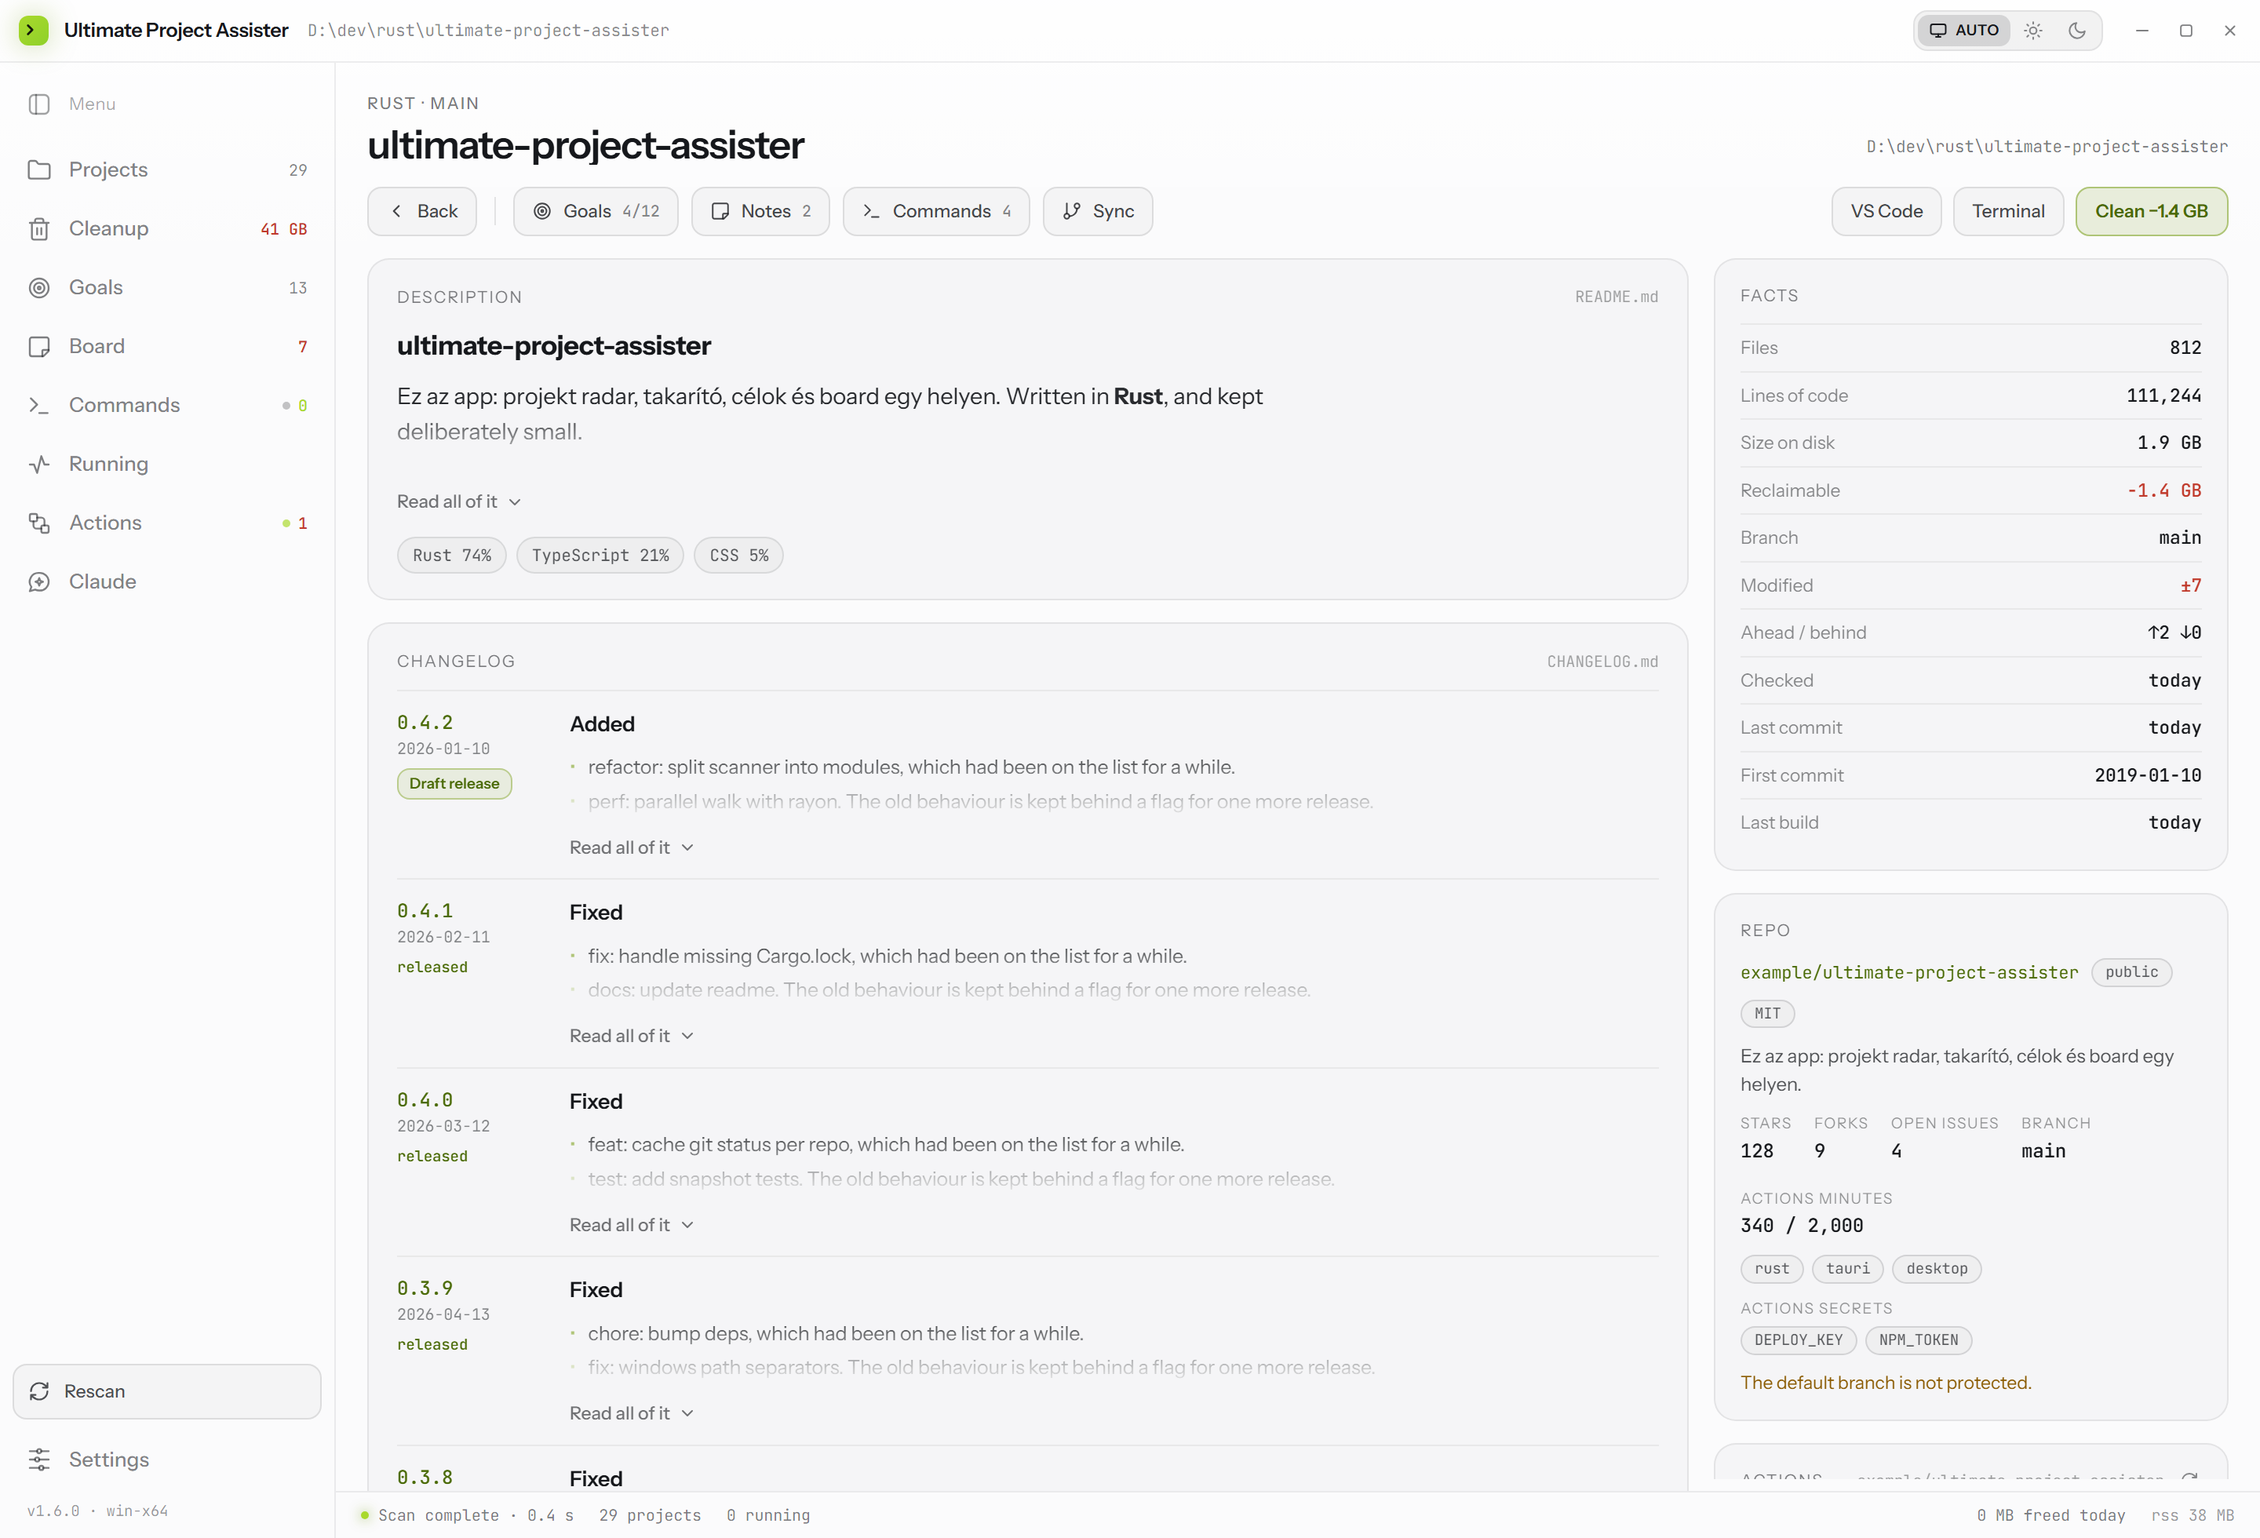
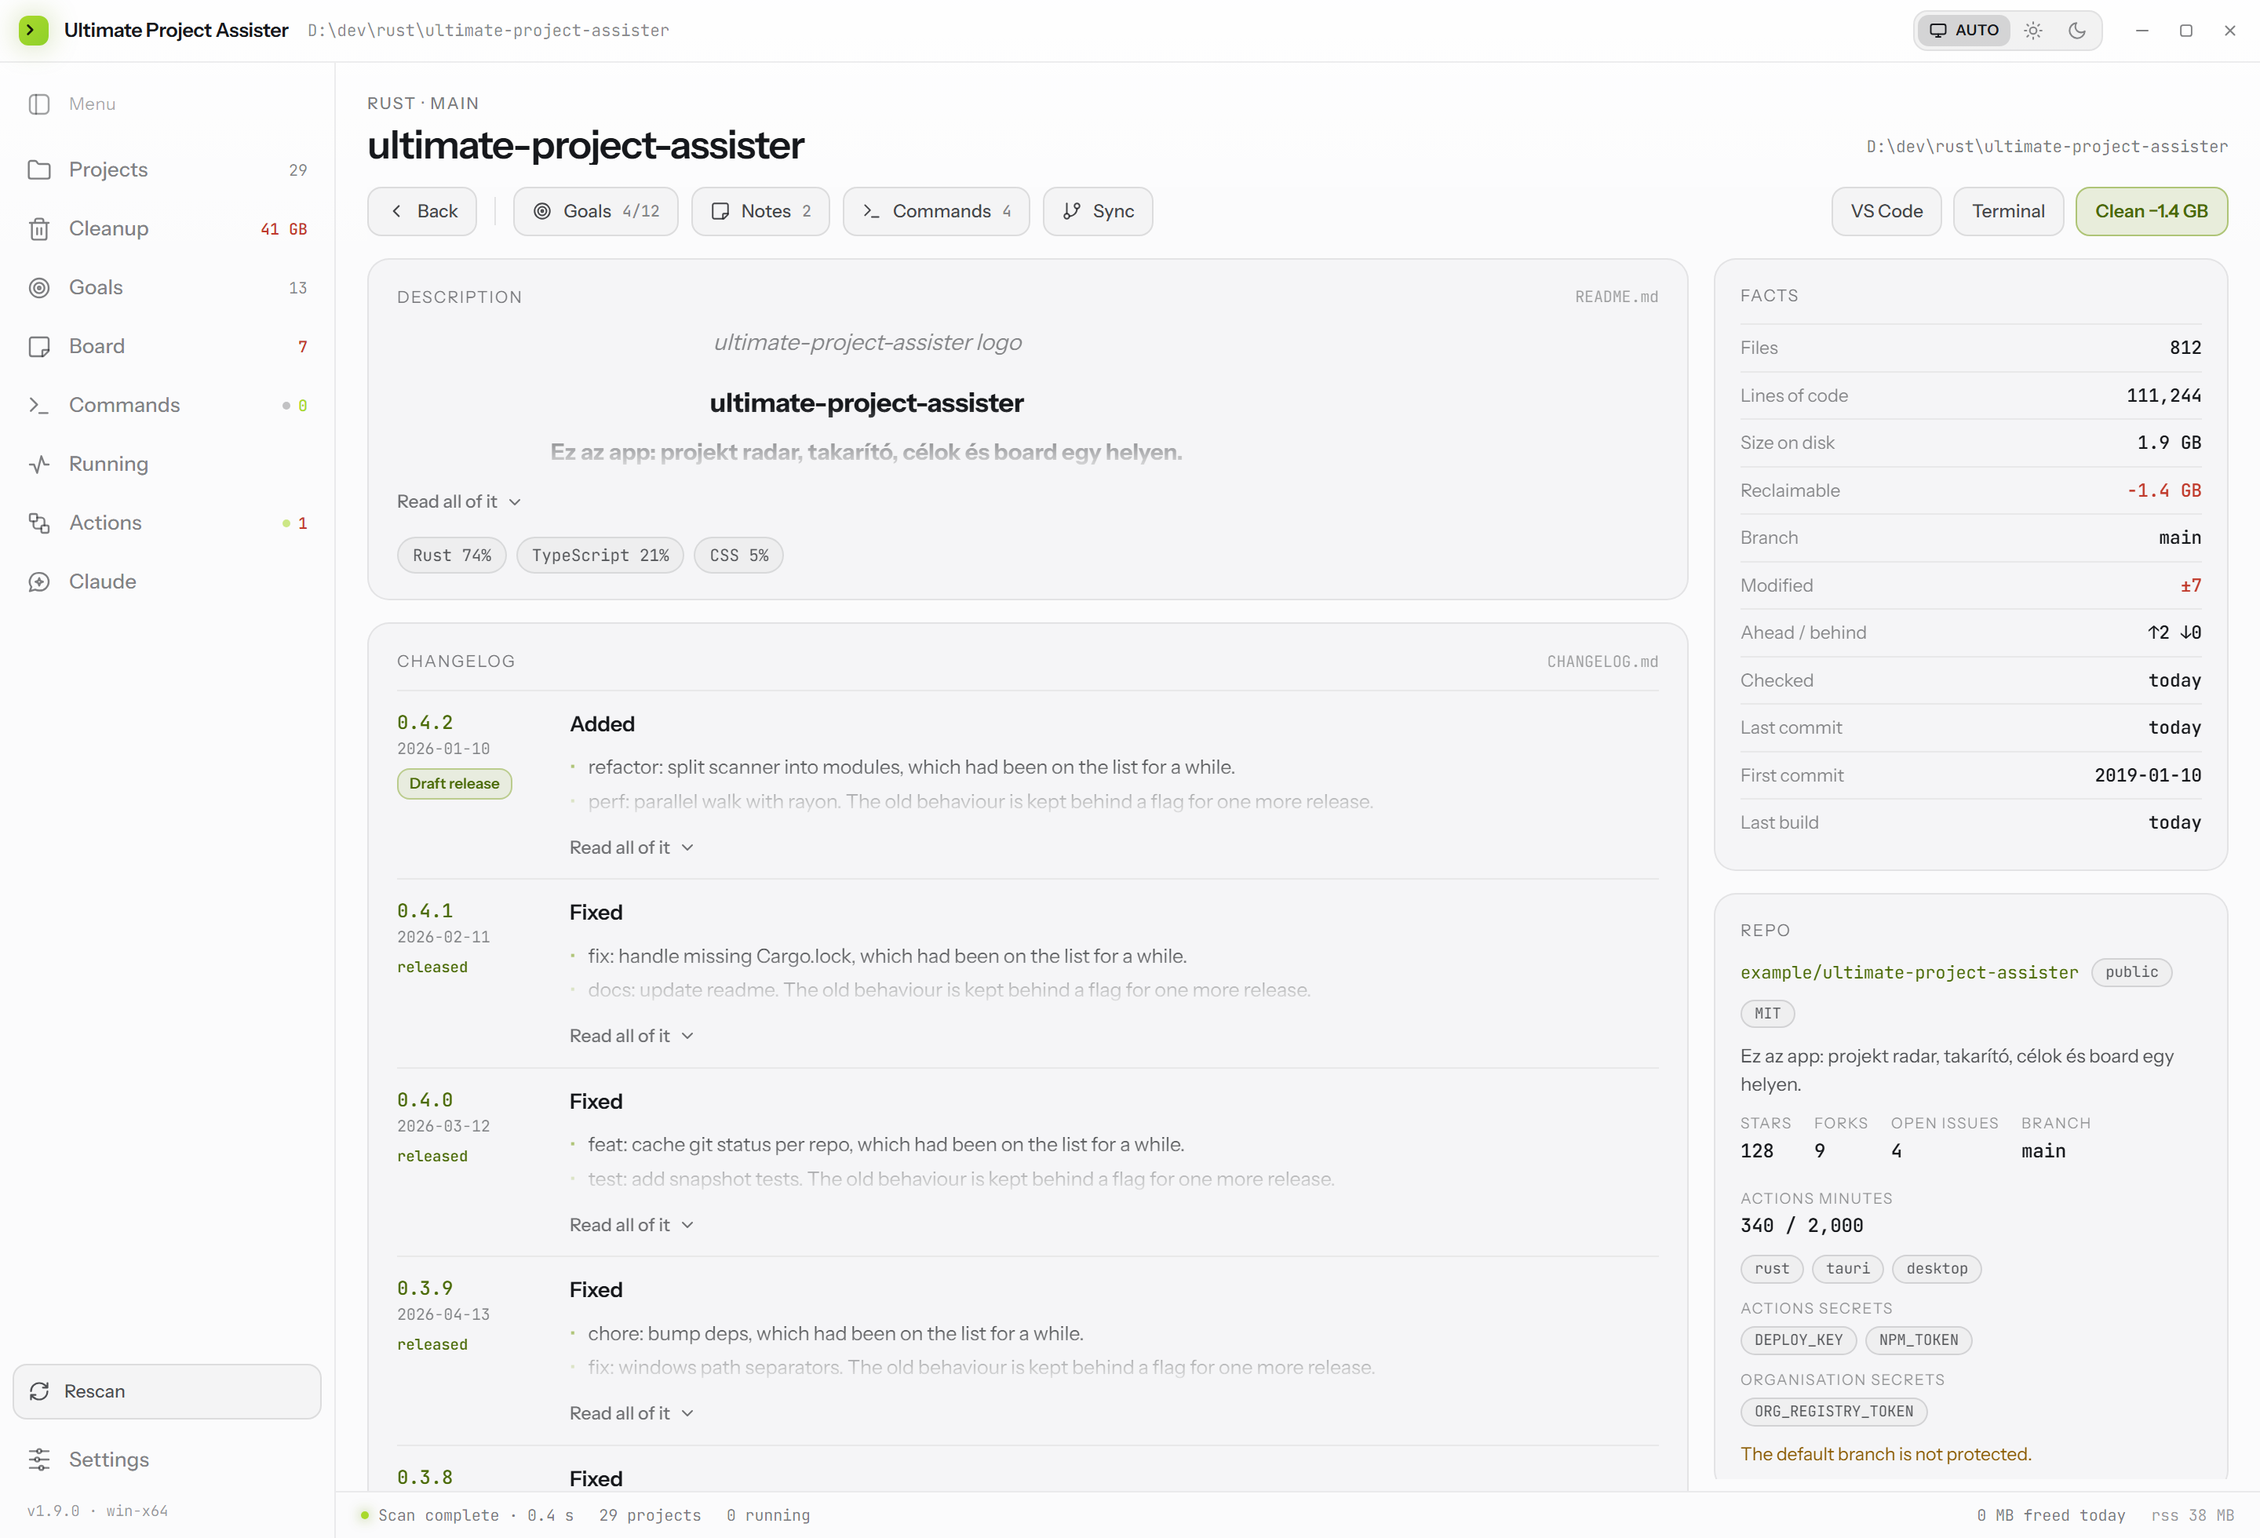
fix: a README's HTML is rendered, not printed
Half the repositories on GitHub open with a centred block — a logo, the title, a
row of badges, a line of small print — and the description panel showed the
markup itself: `<div align="center">` as a line of text, then the `<img>` tag,
then the heading.

A small, closed subset of HTML is understood now: alignment carried by div, p
and center; headings; line breaks; bold, italic, code and strikethrough; links;
details/summary; and comments, which are dropped. Anything else loses its tags
and keeps its text, because showing the markup is worse than either rendering it
or leaving it out.

Nothing is injected as HTML. The inline pass rewrites the handful of tags it
understands into the markdown they stand for and hands the result to the
renderer that was already there — one renderer, already safe, and no path from a
scanned file to markup in the app.

Images cannot be fetched: the paths are relative to a folder the webview does not
serve, and a badge is a remote request this app does not make. Both leave their
label behind — an image its alt text, a badge its name as a small chip — which is
the part that carried the meaning anyway. The sample README gained the same
centred header, so the browser build exercises this too.

Changed region(s): [[0.1875, 0.2179, 0.5625, 0.3112], [0.7812, 0.8714, 0.9062, 0.9648]]

diff --git a/src/components/Markdown.tsx b/src/components/Markdown.tsx
@@ -4,8 +4,13 @@
 // React and the Tauri bindings, and a README needs headings, lists, code,
 // tables and emphasis - not a full CommonMark implementation.
 //
-// Nothing here builds HTML from the source text; every element is a React node,
-// so a README with markup in it renders as text rather than as markup.
+// Nothing here builds HTML from the source text; every element is a React node.
+// A README does contain HTML - the centred logo and badge block at the top of
+// half the repositories on GitHub - so a small, closed subset of it is
+// understood: alignment, headings, line breaks, emphasis, links, images and
+// collapsed sections. Everything else has its tags dropped and its text kept,
+// because showing `<div align="center">` to the reader is worse than either
+// rendering it or leaving it out.
 
 import { Fragment, type CSSProperties, type ReactNode } from "react";
 
@@ -22,6 +27,7 @@ const INLINE = new RegExp(
     "(\\*\\*[^*]+\\*\\*)", // bold
     "(~~[^~]+~~)", // strikethrough
     "(\\*(?!\\s)[^*]+\\*)", // italic
+    "(\\[!\\[[^\\]]*\\]\\([^)]*\\)\\]\\([^)]*\\))", // badge: an image inside a link
     "(!?\\[[^\\]]*\\]\\([^)\\s]*[^)]*\\))", // link / image
     "(<https?://[^>]+>)", // angle autolink
     "(https?://[^\\s<>()\\[\\]]+)", // bare autolink
@@ -51,6 +57,42 @@ function Link({ text, href }: { text: string; href: string }) {
   );
 }
 
+/**
+ * Turns the inline HTML a README uses into the markdown it stands for, and
+ * drops the rest of the tags.
+ *
+ * Deliberately a rewrite into markdown rather than a parse into elements: the
+ * markdown path below is already written, already safe, and this way there is
+ * one renderer rather than two. Nothing here can produce markup - the output is
+ * text that the inline pass reads as text.
+ */
+function fromHtml(text: string): string {
+  return (
+    text
+      // A link keeps its address; anything else about the anchor is dropped.
+      .replace(/<a\s[^>]*href=["']([^"']+)["'][^>]*>([\s\S]*?)<\/a>/gi, "[$2]($1)")
+      .replace(/<(?:b|strong)>([\s\S]*?)<\/(?:b|strong)>/gi, "**$1**")
+      .replace(/<(?:i|em)>([\s\S]*?)<\/(?:i|em)>/gi, "*$1*")
+      .replace(/<code>([\s\S]*?)<\/code>/gi, "`$1`")
+      .replace(/<(?:del|s|strike)>([\s\S]*?)<\/(?:del|s|strike)>/gi, "~~$1~~")
+      // A line break is the one tag whose absence would be felt: without it
+      // the words on either side would run together.
+      .replace(/<br\s*\/?>/gi, " ")
+      // Everything that is left is structure this renderer does not draw. The
+      // text inside it is still the author's, so only the tags go.
+      .replace(/<\/?[a-z][^>]*>/gi, "")
+      // The entities a README actually writes. Anything rarer is left as it
+      // stands rather than half-decoded.
+      .replace(/&nbsp;/g, " ")
+      .replace(/&lt;/g, "<")
+      .replace(/&gt;/g, ">")
+      .replace(/&quot;/g, '"')
+      .replace(/&#39;/g, "'")
+      .replace(/&amp;/g, "&")
+      .trim()
+  );
+}
+
 function inline(text: string, keyPrefix: string): ReactNode[] {
   const out: ReactNode[] = [];
   let last = 0;
@@ -63,7 +105,30 @@ function inline(text: string, keyPrefix: string): ReactNode[] {
     const key = `${keyPrefix}i${n++}`;
     const tok = m[0];
 
-    if (tok.startsWith("`")) {
+    if (tok.startsWith("[![")) {
+      // A badge: an image inside a link, which is neither a picture this can
+      // show nor a link worth following. Its label is the whole of it.
+      const alt = tok.slice(3, tok.indexOf("]("));
+      if (alt) {
+        out.push(
+          <span
+            key={key}
+            style={{
+              fontFamily: "'JetBrains Mono',monospace",
+              fontSize: "0.82em",
+              border: "1px solid rgba(var(--wrgb),.12)",
+              borderRadius: 99,
+              padding: "1px 7px",
+              marginRight: 3,
+              color: "rgba(var(--trgb),.6)",
+              whiteSpace: "nowrap",
+            }}
+          >
+            {alt}
+          </span>,
+        );
+      }
+    } else if (tok.startsWith("`")) {
       out.push(
         <code key={key} style={code}>
           {tok.slice(1, -1)}
@@ -104,6 +169,20 @@ function inline(text: string, keyPrefix: string): ReactNode[] {
   return out;
 }
 
+/** `<img ... alt="X" ...>` -> `X`, the only part of an image that can be shown. */
+function imgAlt(tag: string): string {
+  return /alt=["']([^"']*)["']/i.exec(tag)?.[1]?.trim() ?? "";
+}
+
+/** The alignment an opening tag asks for, when it asks for one. */
+function alignOf(tag: string): CSSProperties["textAlign"] {
+  const value = /align=["']?(center|left|right)["']?/i.exec(tag)?.[1]?.toLowerCase();
+  return value === "center" || value === "right" ? value : undefined;
+}
+
+/** A line that is nothing but one HTML tag - the shape a README block takes. */
+const TAG_ONLY = /^<\/?[a-z][^>]*>$/i;
+
 const HEAD_SIZE = [17, 15, 13.5, 12.5, 12, 12];
 
 /** `| a | b |` -> `["a", "b"]`, tolerating a missing trailing pipe. */
@@ -117,17 +196,29 @@ function isDivider(row: string): boolean {
 }
 
 export function Markdown({ source }: { source: string }) {
-  const lines = source.replace(/\r\n/g, "\n").split("\n");
+  // HTML comments are not content, and a README uses them for notes to the
+  // next maintainer and for tool markers alike.
+  const lines = source
+    .replace(/\r\n/g, "\n")
+    .replace(/<!--[\s\S]*?-->/g, "")
+    .split("\n");
   const out: ReactNode[] = [];
   let para: string[] = [];
   let n = 0;
+  /**
+   * Alignment asked for by an enclosing `<div align>` or `<p align>`, innermost
+   * last. A stack rather than a flag: the centred block at the top of a README
+   * usually holds another one.
+   */
+  const aligns: Array<CSSProperties["textAlign"]> = [];
+  const alignment = () => [...aligns].reverse().find(Boolean);
 
   const flushPara = () => {
     if (para.length === 0) return;
     const key = `p${n++}`;
     out.push(
-      <p key={key} style={{ margin: "0 0 9px" }}>
-        {inline(para.join(" "), key)}
+      <p key={key} style={{ margin: "0 0 9px", textAlign: alignment() }}>
+        {inline(fromHtml(para.join(" ")), key)}
       </p>,
     );
     para = [];
@@ -184,6 +275,93 @@ export function Markdown({ source }: { source: string }) {
       continue;
     }
 
+    // --- HTML ---------------------------------------------------------------
+    //
+    // Only the shapes a README actually uses, and only when the line is the tag
+    // itself: a `<` in the middle of a sentence is a less-than sign.
+    if (trimmed.startsWith("<")) {
+      // An image cannot be shown - the path is relative to a folder the webview
+      // does not serve, and a badge is a remote fetch this app does not make -
+      // so what is left of it is what it was labelled.
+      const img = /^<img\s[^>]*>$/i.exec(trimmed);
+      if (img) {
+        flushPara();
+        const alt = imgAlt(trimmed);
+        if (alt) {
+          out.push(
+            <div
+              key={`m${n++}`}
+              style={{
+                margin: "0 0 8px",
+                opacity: 0.55,
+                fontStyle: "italic",
+                textAlign: alignment(),
+              }}
+            >
+              {alt}
+            </div>,
+          );
+        }
+        continue;
+      }
+
+      // `<h2>Text</h2>` on one line, which is how an HTML-formatted README
+      // writes a heading inside a centred block.
+      const head = /^<h([1-6])>([\s\S]*?)<\/h[1-6]>$/i.exec(trimmed);
+      if (head) {
+        flushPara();
+        const depth = Number(head[1] ?? "1");
+        const key = `t${n++}`;
+        out.push(
+          <div
+            key={key}
+            style={{
+              fontSize: HEAD_SIZE[depth - 1],
+              fontWeight: depth <= 2 ? 650 : 600,
+              letterSpacing: "-.01em",
+              margin: out.length === 0 ? "0 0 8px" : "14px 0 7px",
+              color: "var(--t0)",
+              textAlign: alignment(),
+            }}
+          >
+            {inline(fromHtml(head[2] ?? ""), key)}
+          </div>,
+        );
+        continue;
+      }
+
+      // A collapsed section: the summary is the part worth showing, since
+      // there is nothing here to collapse it behind.
+      const summary = /^<summary>([\s\S]*?)<\/summary>$/i.exec(trimmed);
+      if (summary) {
+        flushPara();
+        const key = `s${n++}`;
+        out.push(
+          <div key={key} style={{ fontWeight: 600, margin: "8px 0 6px" }}>
+            {inline(fromHtml(summary[1] ?? ""), key)}
+          </div>,
+        );
+        continue;
+      }
+
+      if (TAG_ONLY.test(trimmed)) {
+        // An opening tag that asks for alignment starts a block; its closing
+        // tag ends one. Everything else - `<br>`, `<hr>`, `</sub>` - is
+        // structure with no text of its own, and simply goes.
+        if (!trimmed.startsWith("</")) {
+          const align = alignOf(trimmed);
+          if (/^<(?:div|p|center)\b/i.test(trimmed)) {
+            flushPara();
+            aligns.push(/^<center\b/i.test(trimmed) ? "center" : align);
+          }
+        } else if (/^<\/(?:div|p|center)>$/i.test(trimmed)) {
+          flushPara();
+          aligns.pop();
+        }
+        continue;
+      }
+    }
+
     // --- heading ----------------------------------------------------------
     const head = /^(#{1,6})\s+(.*)$/.exec(trimmed);
     if (head) {
@@ -199,9 +377,10 @@ export function Markdown({ source }: { source: string }) {
             letterSpacing: "-.01em",
             margin: out.length === 0 ? "0 0 8px" : "14px 0 7px",
             color: "var(--t0)",
+            textAlign: alignment(),
           }}
         >
-          {inline(head[2] ?? "", key)}
+          {inline(fromHtml(head[2] ?? ""), key)}
         </div>,
       );
       continue;

diff --git a/src/mock.ts b/src/mock.ts
@@ -294,7 +294,24 @@ function manifestsFor(stack: string, name: string): string[] {
  * renderer handles: headings, prose, a list, a fenced block, a table, a quote.
  */
 function readmeFor(name: string, stack: string, desc: string): string {
-  return `# ${name}
+  // The centred HTML header half the repositories on GitHub open with, so the
+  // browser build exercises the renderer's HTML path as well as its markdown.
+  return `<div align="center">
+
+<img src="docs/logo.png" alt="${name} logo" width="96" height="96">
+
+# ${name}
+
+**${desc}**
+
+[![License: MIT](https://img.shields.io/badge/License-MIT-blue.svg)](LICENSE)
+[![Version](https://img.shields.io/badge/version-1.0.0-informational.svg)](CHANGELOG.md)
+
+<sub>Written in ${stack} · <a href="https://example.invalid">project page</a></sub>
+
+</div>
+
+---
 
 ${desc} Written in **${stack}**, and kept deliberately small.
 

diff --git a/CHANGELOG.md b/CHANGELOG.md
@@ -8,6 +8,28 @@ the project adheres to [Semantic Versioning](https://semver.org/spec/v2.0.0.html
 Every change is recorded here as it lands, under `Unreleased`. Version numbers
 are assigned when a release is cut — see [CONTRIBUTING.md](CONTRIBUTING.md).
 
+## [Unreleased]
+
+### Fixed
+
+- **A README's HTML is rendered, not printed.** Half the repositories on GitHub
+  open with a centred block — a logo, the title, a row of badges, a line of
+  small print — and the description panel showed the markup itself: `<div
+  align="center">` as a line of text, then the `<img>` tag, then the heading.
+
+  A small, closed subset of HTML is understood now: alignment carried by `div`,
+  `p` and `center`; headings; line breaks; bold, italic, code and strikethrough;
+  links; `details`/`summary`; and comments, which are dropped. Anything else
+  loses its tags and keeps its text, because showing the markup is worse than
+  either rendering it or leaving it out. Nothing is injected as HTML — every
+  element is still a React node, so a README cannot bring markup of its own into
+  the app.
+
+  Images cannot be fetched: the paths are relative to a folder the webview does
+  not serve, and a badge is a remote request this app does not make. Both leave
+  their label behind — an image its alt text, a badge its name as a small chip —
+  which is the part that carried the meaning anyway.
+
 ## [1.9.0] - 2026-08-27
 
 ### Changed
